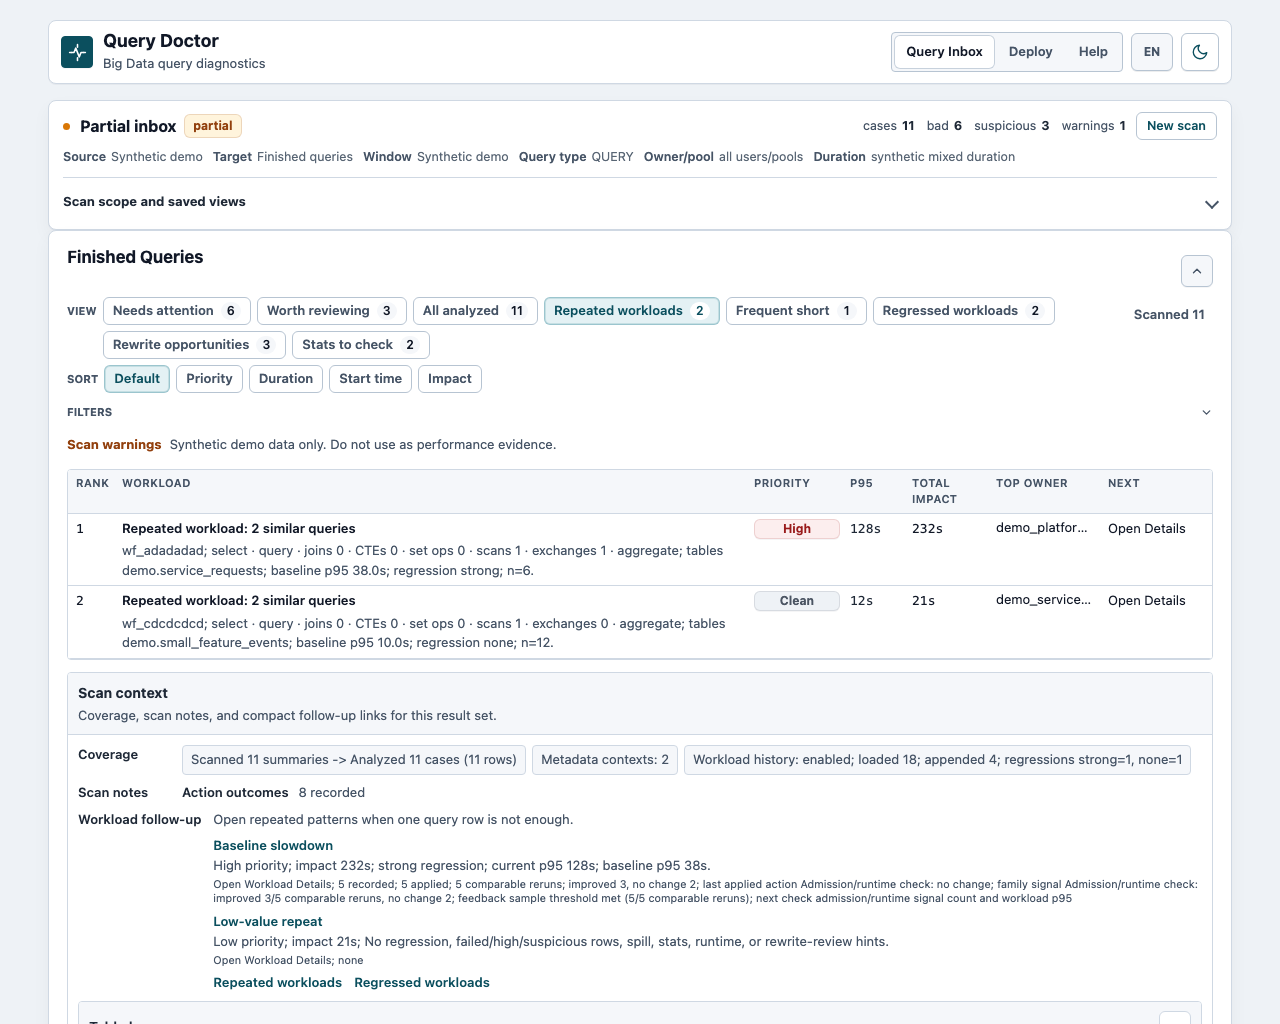
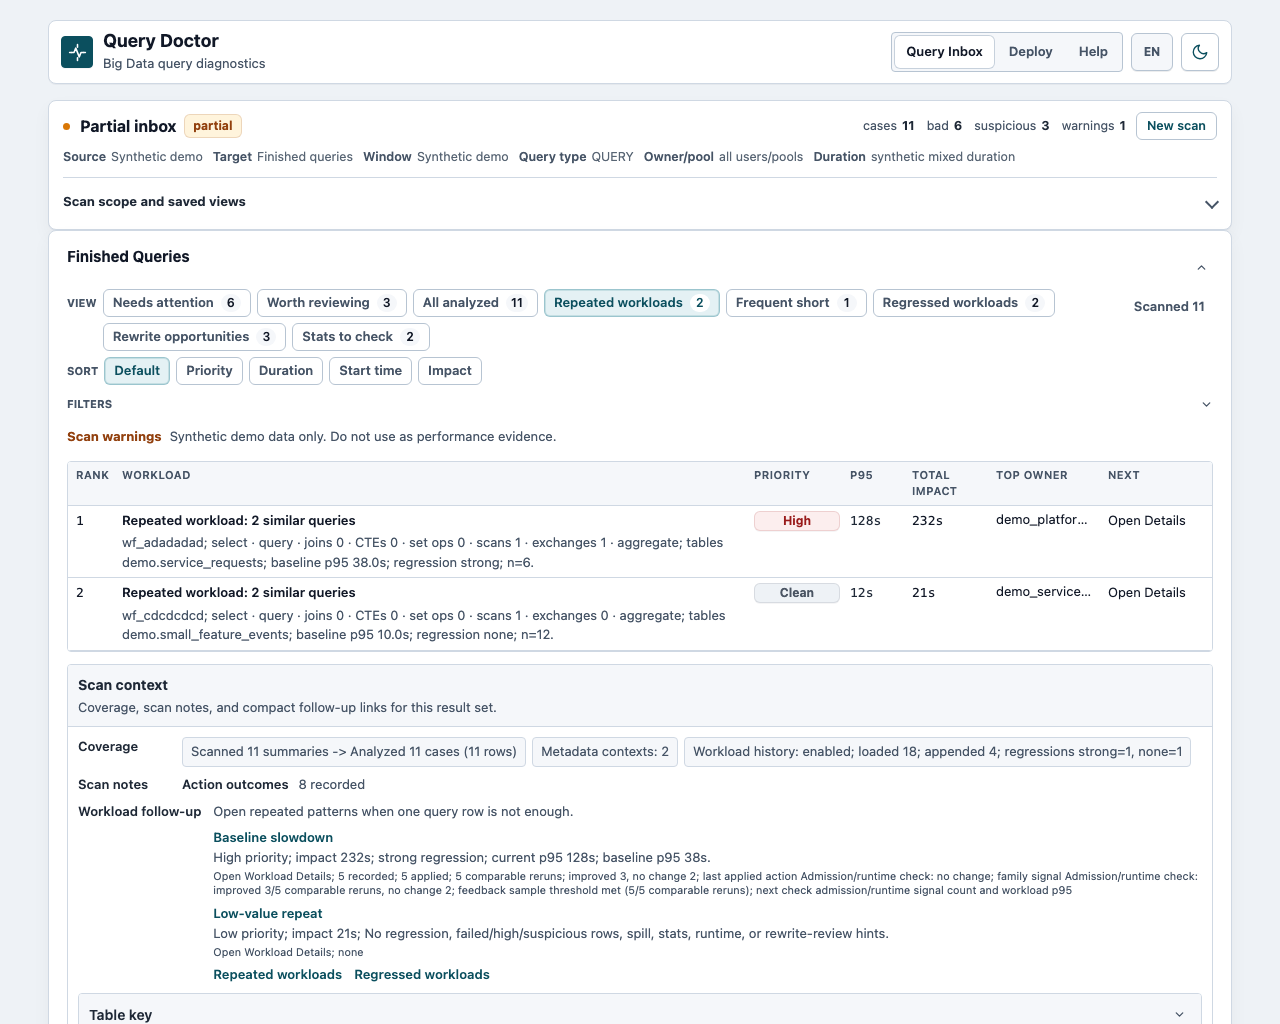
Give headings one scale and focus back
Across the demo pages h1 rendered at 16px, 20px and 26px and h2 at 14px, 16px,
20px, 21px and 22px, so Help showed a 20px section heading under a 16px page
title, and Deployment Readiness had h2 elements with no rule at all, left at
whatever the browser does. Page titles are 20px now, section titles 15px,
sub-headings 13px, and bare h1/h2/h3 carry that scale so nothing falls back to
browser defaults again.

Every disclosure chevron was a 30px bordered button with its own shadow, three
of them stacked down the right edge of the inbox. It is a 22px mark that tints
on hover; the whole summary row stays the click target it already was.

Keyboard focus comes back to the top navigation, the footer links and the
result rows. All three set outline:none on :focus and offered only a colour,
underline or background change in its place.

diff --git a/query_doctor/web/static/app.css b/query_doctor/web/static/app.css
@@ -100,6 +100,18 @@ a {
   text-decoration:none
 }
 
+h1 {
+  font-size:20px
+}
+
+h2 {
+  font-size:15px
+}
+
+h3 {
+  font-size:13px
+}
+
 fieldset {
   border:0;
   margin:0;
@@ -201,8 +213,7 @@ fieldset {
 }
 
 .nav-link:hover,.nav-link:focus {
-  color:var(--accent-strong);
-  outline:none
+  color:var(--accent-strong)
 }
 
 .nav-link--active {
@@ -243,7 +254,6 @@ fieldset {
 
 .footer-links a:hover,.footer-links a:focus {
   color:var(--accent);
-  outline:none;
   text-decoration:underline
 }
 
@@ -489,7 +499,7 @@ code,.technical,.mono {
 
 .section-title {
   margin:0;
-  font-size:20px;
+  font-size:15px;
   font-weight:700;
   letter-spacing:0
 }
@@ -1611,15 +1621,15 @@ html[data-theme=dark] select.input {
 
 .batch-head h1 {
   margin:0 0 4px;
-  font-size:26px;
-  line-height:1.2;
+  font-size:20px;
+  line-height:1.25;
   letter-spacing:0
 }
 
 .batch-head p {
   margin:0;
   color:var(--muted);
-  font-size:14px
+  font-size:13px
 }
 
 .batch-head-actions {
@@ -1637,7 +1647,7 @@ html[data-theme=dark] select.input {
 }
 
 .batch-results-disclosure>.batch-head h1 {
-  font-size:17px
+  font-size:15px
 }
 
 .batch-results-disclosure>.batch-head::-webkit-details-marker {
@@ -2785,14 +2795,14 @@ html[data-theme=dark] select.input {
 .case-verdict-title {
   margin:3px 0 0;
   color:var(--strong);
-  font-size:22px;
-  line-height:1.25
+  font-size:18px;
+  line-height:1.3
 }
 
 .case-verdict-signal {
   margin:3px 0 0;
   color:var(--strong);
-  font-size:15px;
+  font-size:14px;
   font-weight:600;
   line-height:1.35
 }
@@ -3501,7 +3511,7 @@ html[data-theme=dark] select.input {
 }
 
 .diagnostics-subsection .section-title {
-  font-size:16px
+  font-size:14px
 }
 
 .diagnostics-subsection .case-summary-grid {
@@ -3704,8 +3714,7 @@ html[data-theme=dark] select.input {
 }
 
 .batch-row:hover,.batch-row:focus {
-  background:var(--panel-muted);
-  outline:none
+  background:var(--panel-muted)
 }
 
 .batch-row--failed {
@@ -4186,7 +4195,7 @@ html[data-theme=dark] select.input {
 .case-detail-panel>.docs-panel.action-plan-panel .section-title {
   padding:0 0 12px;
   border-bottom:1px solid var(--border);
-  font-size:20px
+  font-size:15px
 }
 
 .case-detail-panel>.docs-panel.action-plan-panel .report-body {
@@ -4216,7 +4225,7 @@ html[data-theme=dark] select.input {
   margin:0;
   border-bottom:1px solid var(--border);
   background:var(--panel-muted);
-  font-size:16px;
+  font-size:15px;
   font-weight:700
 }
 
@@ -4355,15 +4364,15 @@ html[data-theme=dark] select.input {
 }
 
 .report-body h1 {
-  font-size:24px
+  font-size:18px
 }
 
 .report-body h2 {
-  font-size:20px
+  font-size:15px
 }
 
 .report-body h3 {
-  font-size:16px
+  font-size:13px
 }
 
 .report-body p {
@@ -4777,23 +4786,20 @@ html[data-theme=dark] select.input {
 .batch-results-disclosure>.batch-head::after,.batch-notices>summary::after,.batch-scan-details>summary::after,.batch-advanced>summary::after,.docs-panel>summary::after,.analysis-subdetails>summary::after,.report-card>summary::after,.report-body>details>summary::after,.help-topic>summary::after,.llm-actions-status-details>summary::after {
   content:"";
   display:inline-block;
-  width:30px;
-  height:30px;
+  width:22px;
+  height:22px;
   margin-left:auto;
-  border:1px solid var(--border);
+  border:1px solid transparent;
   border-radius:var(--radius-sm);
-  background:var(--control) var(--disclosure-chevron-down) no-repeat center/14px 14px;
-  box-shadow:var(--surface-shadow);
+  background:transparent var(--disclosure-chevron-down) no-repeat center/13px 13px;
   color:var(--muted);
-  flex:0 0 30px;
+  flex:0 0 22px;
   filter:none;
   transform:none;
-  transition:background-color .15s ease,border-color .15s ease,box-shadow .15s ease
+  transition:background-color .15s ease,border-color .15s ease
 }
 
 .batch-results-disclosure[open]>.batch-head::after,.batch-notices[open]>summary::after,.batch-scan-details[open]>summary::after,.batch-advanced[open]>summary::after,.docs-panel[open]>summary::after,.analysis-subdetails[open]>summary::after,.report-card[open]>summary::after,.report-body>details[open]>summary::after,.help-topic[open]>summary::after,.llm-actions-status-details[open]>summary::after {
-  border-color:var(--border-strong);
-  background-color:var(--panel-muted);
   background-image:var(--disclosure-chevron-up);
   filter:none;
   transform:none
@@ -4801,8 +4807,7 @@ html[data-theme=dark] select.input {
 
 .batch-results-disclosure>.batch-head:hover::after,.batch-results-disclosure>.batch-head:focus-visible::after,.batch-notices>summary:hover::after,.batch-notices>summary:focus-visible::after,.batch-scan-details>summary:hover::after,.batch-scan-details>summary:focus-visible::after,.batch-advanced>summary:hover::after,.batch-advanced>summary:focus-visible::after,.docs-panel>summary:hover::after,.docs-panel>summary:focus-visible::after,.analysis-subdetails>summary:hover::after,.analysis-subdetails>summary:focus-visible::after,.report-card>summary:hover::after,.report-card>summary:focus-visible::after,.report-body>details>summary:hover::after,.report-body>details>summary:focus-visible::after,.help-topic>summary:hover::after,.help-topic>summary:focus-visible::after,.llm-actions-status-details>summary:hover::after,.llm-actions-status-details>summary:focus-visible::after {
   border-color:rgba(15,111,131,.36);
-  background-color:var(--accent-soft);
-  box-shadow:0 0 0 3px var(--focus-ring)
+  background-color:var(--accent-soft)
 }
 
 .compact-details summary::after,.action-outcome-control summary::after {
@@ -5352,7 +5357,7 @@ html[data-design=command] .badge,html[data-design=command] .batch-mini-badge {
 }
 
 .batch-head h1 {
-  font-size:22px
+  font-size:18px
 }
 
 .batch-head .badge {

diff --git a/tests/test_web_server.py b/tests/test_web_server.py
@@ -3496,7 +3496,7 @@ def test_web_available_action_cards_explain_purpose():
     assert_css_contains(
         styles,
         ".case-detail-panel>.docs-panel.action-plan-panel .section-title{"
-        "padding:0 0 12px;border-bottom:1px solid var(--border);font-size:20px}",
+        "padding:0 0 12px;border-bottom:1px solid var(--border);font-size:15px}",
     )
     assert_css_contains(
         styles,

diff --git a/docs/changelog.md b/docs/changelog.md
@@ -24,6 +24,19 @@ release notes remain in [release-notes-0.10.0.md](release-notes-0.10.0.md),
 
 ## Unreleased
 
+- Headings, disclosure controls and keyboard focus now follow one set of rules.
+  Across the demo pages `h1` rendered at 16px, 20px and 26px and `h2` at 14px,
+  16px, 20px, 21px and 22px, so Help showed a 20px section heading under a 16px
+  page title and Deployment Readiness had `h2` elements with no rule at all,
+  left at the browser default. Page titles are 20px now, section titles 15px,
+  sub-headings 13px, and bare `h1`/`h2`/`h3` carry that scale so nothing falls
+  back to browser defaults again. Every disclosure chevron was a 30px bordered
+  button with its own shadow; it is a 22px mark that tints on hover, and the
+  whole summary row stays the click target it already was. Keyboard focus came
+  back to the top navigation, the footer links and the result rows: all three
+  set `outline:none` on `:focus` and offered only a colour, underline or
+  background change in its place.
+
 - The results table now shows the query id it is supposed to hand to the
   coordinator. The column was capped at 190px while the id and the workload
   fingerprint beside it needed 240px, so every grouped row ended in an ellipsis
